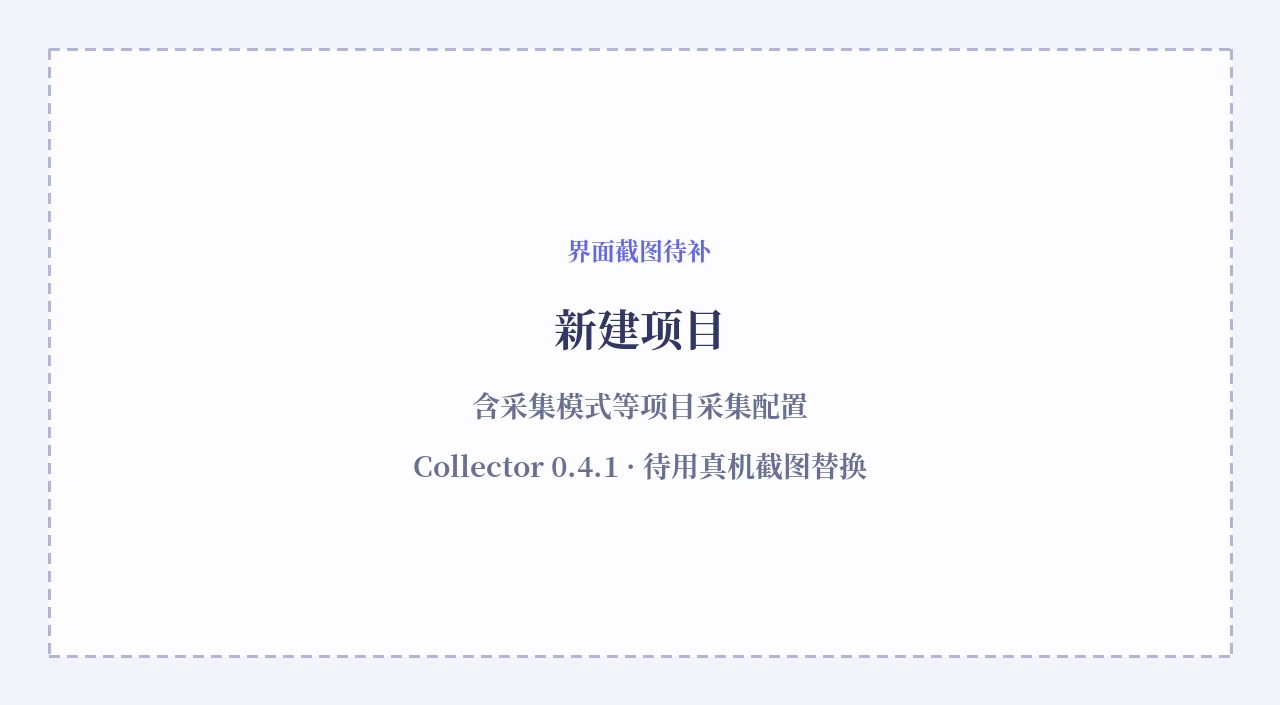
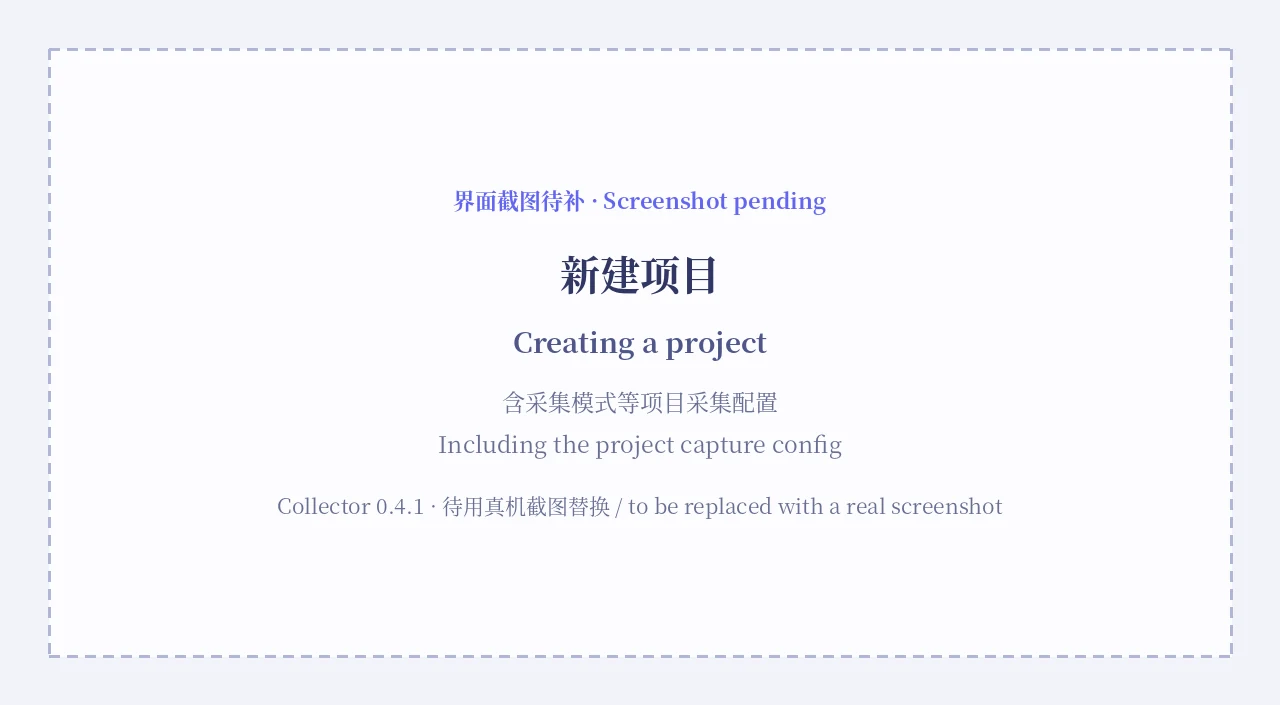
docs: make the 0.4.1 placeholder screenshots bilingual
上一个提交的占位图只有中文,而这四张在中英两套页面里共用同一个文件,英文
读者看到的是一张读不懂的占位图。

做成双语而不是另出一套 *.en.webp:一份图两边都读得懂,省掉四个文件和英文页
四处引用改动,重截时也不用把引用改回来。图上现在是中英对照的「界面截图待补 ·
Screenshot pending」、页面名、该拍什么,以及替换说明。英文术语沿用英文页已有
的小节标题(System → Capture settings / Creating a project / System → Upload
configuration / System → Network),不另起叫法。

顺带在 docs/assets/README.md 记下一个结论:真机截图拍的是控制台界面,界面
本身就是中文,站内其余截图在英文页也都是中文界面图,所以重截之后不需要再出
英文版截图 —— 需要双语的只有「占位」这层文档说明。免得日后有人以为还欠一套。

尺寸未变(版面不跳动),28–39 KB,仍远低于单张 100 KB 的素材约定;文档引用
路径一处未改。

验证:git diff --check 无输出;mkdocs build --strict 零告警。

diff --git a/docs/assets/README.md b/docs/assets/README.md
@@ -29,6 +29,10 @@
 | `upload.webp` | 系统 → 上传配置,展开后端种类下拉 | 原图是三档后端;0.4.1 是五档(多了 FTP / FTPS 与 NFS) |
 | `wifi.webp` | 系统 → 网络 / 配网,含热点开关与「域名」字段 | 原图的热点块是只读展示;0.4.1 可开关热点、可改 mDNS 域名 |
 
+占位图是**双语**的(中文 + English):这四张在中英两套页面里共用同一个文件,
+一份双语图两边都读得懂,省掉一套英文专用图和两边的引用改动。真机截图拍的是
+控制台界面,界面本身是中文,与站内其余截图一致,不需要再出英文版。
+
 其余截图暂按原样保留 —— 它们与 0.4.1 的差异还没有核实到「结构性改变」的程度,
 拿真图换掉一张能看的旧图,不如先留着。重截时可一并核对。
 
